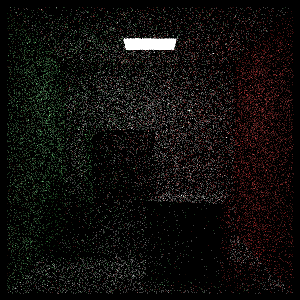
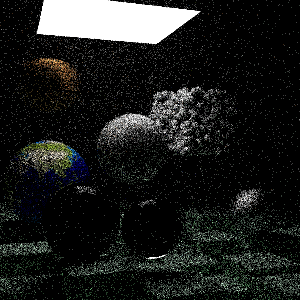
Added Perlin Noise generator and texture type
I might need to rework the Perlin generator later, it does seem to produce strange results 😬

diff --git a/scenes/scene.cpp b/scenes/scene.cpp
@@ -38,12 +38,10 @@ bvh_node random_scene::descr() const {
                 if (choose_mat < 0.8) { // diffuse
                     auto albedo = make_shared<const_texture>(vec3(random_double(), random_double(), random_double()) * vec3(random_double(), random_double(), random_double()));
 
-                    if (random_double() > 0.5) {
+                    if (random_double() > 0.5)
                         objects.add(make_shared<sphere>(center, 0.2, make_shared<lambertian>(albedo)));
-                    }
-                    else {
+                    else
                         objects.add(make_shared<moving_sphere>(center, center + vec3(0, random_double(0, .5), 0), 0.0, 1.0, 0.2, make_shared<lambertian>(albedo)));
-                    }
                 }
                 else if (choose_mat < 0.95) { // metal
                     auto albedo = make_shared<const_texture>(vec3(random_double(0.5, 1), random_double(0.5, 1), random_double(0.5, 1)));
@@ -104,6 +102,74 @@ bvh_node basic_scene::descr() const {
 
     objects.add(make_shared<sphere>(vec3(1, 0, -1), 0.5, make_shared<metal>(make_shared<const_texture>(vec3(0.8, 0.6, 0.2)), 0.3)));
     objects.add(make_shared<sphere>(vec3(-1, 0, -1), 0.5, make_shared<metal>(make_shared<const_texture>(vec3(0.8, 0.8, 0.8)), 1)));
+
+    return bvh_node(objects, 0, 1);
+}
+
+bvh_node book2_scene::descr() const {
+    hittable_list objects;
+
+    hittable_list boxes1;
+    auto ground = make_shared<lambertian>(make_shared<const_texture>(vec3(0.48, 0.83, 0.53)));
+
+    const int boxes_per_side = 20;
+    for (int i = 0; i < boxes_per_side; i++) {
+        for (int j = 0; j < boxes_per_side; j++) {
+            auto w = 100.0;
+            auto x0 = -1000.0 + i * w;
+            auto z0 = -1000.0 + j * w;
+            auto y0 = 0.0;
+            auto x1 = x0 + w;
+            auto y1 = random_double(1, 101);
+            auto z1 = z0 + w;
+
+            boxes1.add(make_shared<box>(vec3(x0, y0, z0), vec3(x1, y1, z1), ground));
+        }
+    }
+
+    objects.add(make_shared<bvh_node>(boxes1, 0, 1));
+
+    auto light = make_shared<diffuse_light>(make_shared<const_texture>(vec3(7, 7, 7)));
+    objects.add(make_shared<xz_rect>(123, 423, 147, 412, 554, light));
+
+    auto center1 = vec3(400, 400, 200);
+    auto center2 = center1 + vec3(30, 0, 0);
+    auto moving_sphere_material = make_shared<lambertian>(make_shared<const_texture>(vec3(0.7, 0.3, 0.1)));
+    objects.add(make_shared<moving_sphere>(center1, center2, 0, 1, 50, moving_sphere_material));
+
+    objects.add(make_shared<sphere>(vec3(260, 150, 45), 50, make_shared<dielectric>(1.5)));
+    objects.add(make_shared<sphere>(vec3(0, 150, 145), 50, make_shared<metal>(make_shared<const_texture>(vec3(0.8, 0.8, 0.9)), 10.0)));
+
+    auto boundary = make_shared<sphere>(vec3(360, 150, 145), 70, make_shared<dielectric>(1.5));
+    objects.add(boundary);
+    objects.add(make_shared<constant_medium>(boundary, 0.2, make_shared<const_texture>(vec3(0.2, 0.4, 0.9))));
+    boundary = make_shared<sphere>(vec3(0, 0, 0), 5000, make_shared<dielectric>(1.5));
+    objects.add(make_shared<constant_medium>(boundary, .0001, make_shared<const_texture>(vec3(1, 1, 1))));
+
+    int nx, ny, nn;
+    auto tex_data = stbi_load("earthmap.jpg", &nx, &ny, &nn, 0);
+    auto emat = make_shared<lambertian>(make_shared<image_texture>(tex_data, nx, ny));
+    objects.add(make_shared<sphere>(vec3(400, 200, 400), 100, emat));
+    auto pertext = make_shared<noise_texture>(0.1);
+    objects.add(make_shared<sphere>(vec3(220, 280, 300), 80, make_shared<lambertian>(pertext)));
+
+    hittable_list boxes2;
+    auto white = make_shared<lambertian>(make_shared<const_texture>(vec3(0.73, 0.73, 0.73)));
+    int ns = 1000;
+    for (int j = 0; j < ns; j++)
+        boxes2.add(make_shared<sphere>(vec3(random_int(0, 165), random_int(0, 165), random_int(0, 165)), 10, white));
+
+    objects.add(make_shared<translate>(make_shared<rotate_y>(make_shared<bvh_node>(boxes2, 0.0, 1.0), 15), vec3(-100, 270, 395)));
+
+    return bvh_node(objects, 0, 1);
+}
+
+bvh_node perlin_scene::descr() const {
+    hittable_list objects;
+
+    auto pertext = make_shared<noise_texture>(0.4);
+    objects.add(make_shared<sphere>(vec3(0, -1000, 0), 1000, make_shared<lambertian>(pertext)));
+    objects.add(make_shared<sphere>(vec3(0, 2, 0), 2, make_shared<lambertian>(pertext)));
 
     return bvh_node(objects, 0, 1);
 }

diff --git a/utilities/perlin.h b/utilities/perlin.h
@@ -1,0 +1,109 @@
+#pragma once
+
+#include <array>
+#include <cmath>
+
+#include "utilities/vec3.h"
+#include "utilities/random.h"
+
+class perlin {
+public:
+    perlin() {
+        rand_vec = new vec3[point_count];
+        for (int i = 0; i < point_count; ++i)
+            rand_vec[i] = unit_vector(vec3(random_double(-1, 1), random_double(-1, 1), random_double(-1, 1)));
+
+        perm_x = perlin_generate_perm();
+        perm_y = perlin_generate_perm();
+        perm_z = perlin_generate_perm();
+    }
+
+    ~perlin() {
+        delete[] rand_vec;
+        delete[] perm_x;
+        delete[] perm_y;
+        delete[] perm_z;
+    }
+
+    double noise(const vec3& p) const {
+        double u = p.x() - floor(p.x());
+        double v = p.y() - floor(p.y());
+        double w = p.z() - floor(p.z());
+
+        int i = static_cast<int>(floor(p.x()));
+        int j = static_cast<int>(floor(p.y()));
+        int k = static_cast<int>(floor(p.z()));
+
+        vec3 c[2][2][2];
+
+        for (int di = 0; di < 2; di++)
+            for (int dj = 0; dj < 2; dj++)
+                for (int dk = 0; dk < 2; dk++)
+                    c[di][dj][dk] = rand_vec[
+                            perm_x[(i + di) & 255] ^
+                            perm_y[(j + dj) & 255] ^
+                            perm_z[(k + dk) & 255]
+                    ];
+
+        return perlin_interp(c, u, v, w);
+    }
+
+    double turb(const vec3& p, int depth = 7) const {
+        double accum = 0.0;
+        vec3 temp_p = p;
+        double weight = 1.0;
+
+        for (int i = 0; i < depth; i++) {
+            accum += weight * noise(temp_p);
+            weight *= 0.5;
+            temp_p *= 2;
+        }
+
+        return fabs(accum);
+    }
+
+private:
+    static const int point_count = 256;
+    vec3* rand_vec;
+    int* perm_x;
+    int* perm_y;
+    int* perm_z;
+
+    static int* perlin_generate_perm() {
+        int* p = new int[point_count];
+
+        for (int i = 0; i < point_count; i++)
+            p[i] = i;
+
+        permute(p, point_count);
+
+        return p;
+    }
+
+    static void permute(int* p, int n) {
+        for (int i = n - 1; i > 0; i--) { // should it be n or (n - 1)?
+            int target = random_int(0, i);
+            int tmp = p[i];
+            p[i] = p[target];
+            p[target] = tmp;
+        }
+    }
+
+    static double perlin_interp(vec3 c[2][2][2], double u, double v, double w) {
+        double uu = u * u * (3 - 2 * u);
+        double vv = v * v * (3 - 2 * v);
+        double ww = w * w * (3 - 2 * w);
+        double accum = 0.0;
+
+        for (int i = 0; i < 2; i++)
+            for (int j = 0; j < 2; j++)
+                for (int k = 0; k < 2; k++) {
+                    vec3 weight_v(u - i, v - j, w - k);
+                    accum += (i * uu + (1 - i) * (1 - uu)) *
+                             (j * vv + (1 - j) * (1 - vv)) *
+                             (k * ww + (1 - k) * (1 - ww)) * dot(c[i][j][k], weight_v);
+                }
+
+        return accum;
+    }
+};

diff --git a/main.cpp b/main.cpp
@@ -21,7 +21,7 @@
 
 
 constexpr float MAX_DIST = 1000.f;
-unsigned int max_bounces = 5, max_samples = 20;
+unsigned int max_bounces = 3, max_samples = 20;
 unsigned int width = 300, height = 300;
 
 vec3 compute_color(const ray& r, const vec3& background, const hittable& world, int bounces) {
@@ -75,7 +75,7 @@ int main(int argc, char* argv[]) {
     constexpr int channels = 3;
     std::string filename = "output";
 
-    perlin_scene cur_scene;
+    book2_scene cur_scene;
     double fov = cur_scene.fov(), aperture = cur_scene.aperture(), focus_dist = cur_scene.focus_dist();
     vec3 cam_pos = cur_scene.cam(), look_at = cur_scene.lookat();
     vec3 background = cur_scene.background();

diff --git a/textures/texture.h b/textures/texture.h
@@ -3,6 +3,7 @@
 #include <memory>
 
 #include "utilities/vec3.h"
+#include "utilities/perlin.h"
 
 class texture {
 public:
@@ -39,4 +40,18 @@ private:
     std::shared_ptr<texture> even;
     std::shared_ptr<texture> odd;
     double frequency;
+};
+
+class noise_texture : public texture {
+public:
+    noise_texture() : scale(1) {}
+    noise_texture(double sc) : scale(sc) {}
+
+    virtual vec3 value(const double& u, const double& v, const vec3& p) const override {
+        return vec3(1) * 0.5 * (1 + sin(scale * p.z() + 10 * noise.turb(p)));
+    }
+
+private:
+    double scale;
+    perlin noise;
 };

diff --git a/scenes/scene.h b/scenes/scene.h
@@ -45,3 +45,17 @@ public:
 
     virtual bvh_node descr() const override;
 };
+
+class book2_scene : public scene {
+public:
+    book2_scene() : scene(vec3(478, 278, -600), vec3(278, 278, 0), 40, 0, 10, vec3(0)) {}
+
+    virtual bvh_node descr() const override;
+};
+
+class perlin_scene : public scene {
+public:
+    perlin_scene() : scene(vec3(13, 2, 3), vec3(0), 20, 0, 10, vec3(0.5, 0.7, 1.0)) {}
+
+    virtual bvh_node descr() const override;
+};

diff --git a/README.md b/README.md
@@ -38,5 +38,5 @@ PathTracerInOneWE -s 40 -b 50 -fov 50 -cam -2 2 -3 -look 0 0 -1 -w 1280 -h 720
 *Rendering time: 33s (Core i5-4440@3.30 GHz)*
 
 ## References
-My project uses stb_image_write.h to save the result image to png and stb_image.h to load texture images: 
+My project uses stb_image_write.h to save the result image to png and stb_image.h to load texture images:
 [stb](https://github.com/nothings/stb) (Public Domain)
